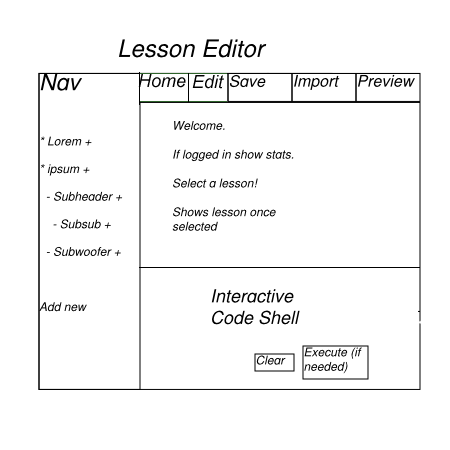
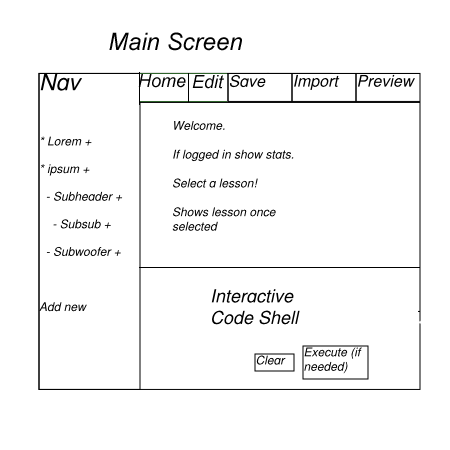
UI-overview commit
git-svn-id: https://autotutor.csc.calpoly.edu/svn/trunk@155 50065d94-6802-42e0-adc3-1bef15d4fe63

Changed region(s): [[0.2489, 0.0622, 0.5911, 0.1244]]

diff --git a/requirements/ui-overview.html b/requirements/ui-overview.html
@@ -11,22 +11,104 @@
 </h3>
 </a>
 <p>
-<em><strong><font color=red>Put user interface overview
-here.</font></strong></em>
+After the user logs in, they are taken to the screen shown below in Figure 1.
 
 <br>
 <br>
+<hr>
+<a name="Figure Initial screen">
+
+<a name="Initial screen">
+<p align=center>
+<img src="images/Interface_Design-Main_Screen.png">
+</p>
+</a>
+<p align=center> Figure 1:  Initial screen.  </p>
+<hr>
+</a>
+<br>
+
+The initial display consists of two windows: a standard form of pulldown
+command menu and a display of the current monthly calendar.  The calendar entry
+for the current date is highlighted with a widened border.  The monthly display
+is the standard default view.  The user may change this and other default
+settings using the option commands discussed later.
+</p><p>
+Figure 2 shows an expansion of the command menus.
+
+<br>
+<br>
+
+<hr>
+<p>
+<p>
+
+Home: <br>
+The Home button will take you to some instructions to pick a class and lesson.  
+The navigation bar on the left will show all classes and lessons the user has 
+subscribed to.  
+
+<br><br>
+
+Edit(only available for instructor): <br>
+The Edit button is visible only for instructors.  When navigating lessons 
+they will have the option of clicking the "Edit" button to edit the contents of
+the lesson. See the "Editing Lessons" section for more details.
+
+<br> <br>
+
+Save(only availble for instructor): <br>
+The Save button is visible only for instructors.  When editing a lesson, 
+an instructor is able to save their edits by clicking the Save button.
+
+<br><br>
+
+Import(ony available for instructor):<br>
+The Import button is visible only for instructors.  When editing a lesson, 
+an instructor is able to import data into their lessons by clicking the 
+Import button.  See "Importing data into Lessons" for more details.
+
+<br><br>
+
+The Nav Bar: <br>
+The Nav Bar contains all lessons that the user is subscribed to or owns. A 
+user can navigate through the lessons by clicking the symbol to the left of 
+the topic to expand and view sub-lessons.  To collapse the lesson the symbol
+to the left is clicked again.  To view a lesson, the user will click
+on the name of the topic he or she wishes to see. 
+
+<br><br>
+
+The Nav Bar(instructors): <br>
+In addition to the content above, instructors are able to add new sub-
+lessons by clicking the "+" sign to the right of a lesson.  This will add 
+a new lesson to the end of the sub-lessons in that section.  They will aslo 
+have the ability to add a class by clicking hte Add new button on the bottom 
+of the Nav Bar.  See "Creating Lessons" for more details.
+
+<br><br>
+
+Interactive Code Shell: <br>
+The Interactive Code Shell is where example code for each lesson is ran. 
+When not viewing a lesson, the Code Shell is initially empty.  The user has the
+option to add code and run it.  Once a lesson is selected, this area will be 
+populated with example code for that lesson.
+
+<br><br>
+
+</p><p>
 <br>
 <br>
 <hr width=80% size=3>
 <center>
 <font size=-1>
 <font color=black> Prev: </font>[none]
- | <font color=black> Next: </font><a href=""><em><strong><font color=red>Your
- section 2.2</font></strong></em></a>
+ | <font color=black> Next: </font><a href="appt-scheduling.html">appt-scheduling</a>
+
  | <font color=black> Up: </font><a href="functional.html">functional</a>
  | <font color=black> Top: </font><a href="index.html">index</a></font>
 </center>
 <hr width=80% size=3>
 </body>
 </html>
+
